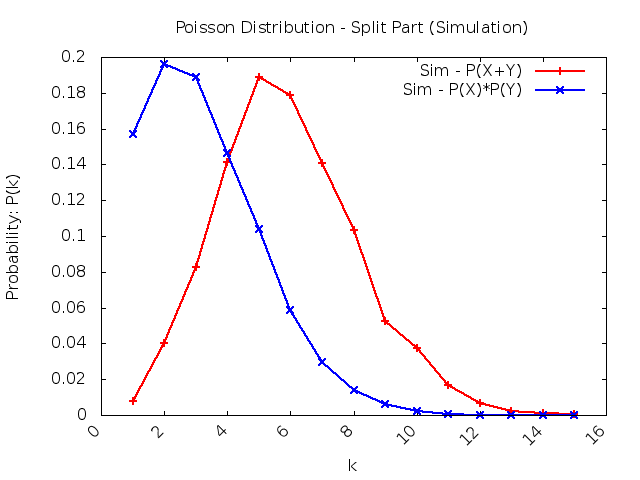
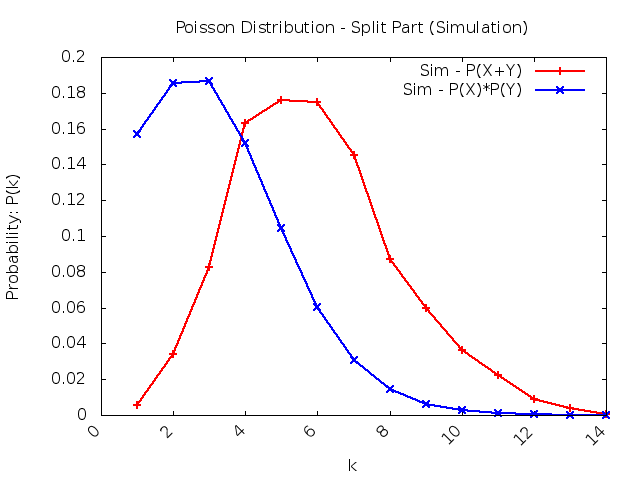
Modified part_b simulation model.
* Let P(X)*P(Y) = P(X+Y).

diff --git a/poisson_distribution/part_b.cc b/poisson_distribution/part_b.cc
@@ -11,7 +11,7 @@ int main(int argc,char *argv[]){
     // set rules 
     args->set_args_rules("p","Probability of Poisson X","0.4","float");
     args->set_args_rules("l","lambda of Poisson N","3","int");
-    args->set_args_rules("k","upperbound of k (for N, which N can derive to N1, N2 according to p and 1-p)","100","int");
+    args->set_args_rules("k","upperbound of k (for N, which N can derive to N1, N2 according to p and 1-p)","10000","int");
     args->set_args_rules("s","simulation times","10000","int");
     // parse it!
     args->parsing(argc,argv);
@@ -31,12 +31,12 @@ int main(int argc,char *argv[]){
     // Calculate 
     for(double i=1;i<=upperbound;i++){
         // Get total P{X+Y=i}
-        double p_s,px=0,py=0;
+        double p_s,p_xy=0;
         p_s = poisson(l,i);
-        px = poisson(l*p,i*p);
-        py = poisson(l*(1-p),i*(1-p));
-
-        fprintf(fp,"%lf %lf %lf\n",i,p_s,px*py);
+        for(int j=0;j<=i;j++){
+            p_xy += poisson(l*p,j)*poisson(l*(1-p),(i-j));
+        }
+        fprintf(fp,"%lf %lf %lf\n",i,p_s,p_xy);
     }
 
     // ===================================== Simulation Part ===================================== 

diff --git a/poisson_distribution/README.md b/poisson_distribution/README.md
@@ -102,12 +102,15 @@ P(Y=n-k) &=&\frac{e^{-(\lambda_2)}}{(n-k)!} \cdot (\lambda_2)^{n-k}
 
 ### Example 3.23 (Split)
 * It will be implemented in `part_b.cc`
+
 ![](../res/example3_23.png)
 
 * Testing with statistics: $$k=20,\ \lambda=10,\ p=0.4$$, also if you want to adjust, please using `./part_b.out -h` to see more.
+
 ![](image/part_b.png)
 
 * And simulation part: 
+
 ![](image/part_b_sim.png)
 
 #### Difference (TODO)
